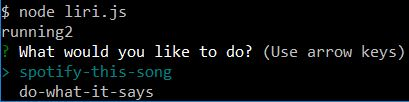
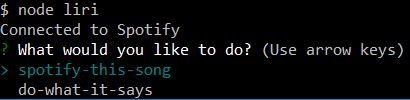
fixing final

Changed region(s): [[0.0, 0.0, 0.9976, 1.0]]

diff --git a/liri.js b/liri.js
@@ -21,7 +21,7 @@ inquirer.prompt([{
         switch (userCommand) {
             // Start of Spotify command
             case 'spotify-this-song':
-                console.log("running");
+                console.log("You've selected Spotify...");
                 inquirer.prompt([{
                             type: "input",
                             message: "What song would you like to search for?",
@@ -56,7 +56,8 @@ inquirer.prompt([{
 
                 // Start of other command
             case 'do-what-it-says':
-                console.log("running 2");
+                console.log("running 2")
+                console.log("Under Development");
                 break;
                 // End of other command
         }

diff --git a/keys.js b/keys.js
@@ -4,5 +4,5 @@ exports.spotify = new Spotify({
   id: process.env.SPOTIFY_ID,
   secret: process.env.SPOTIFY_SECRET
 });
-console.log("running2")
+console.log("Connected to Spotify")
 
